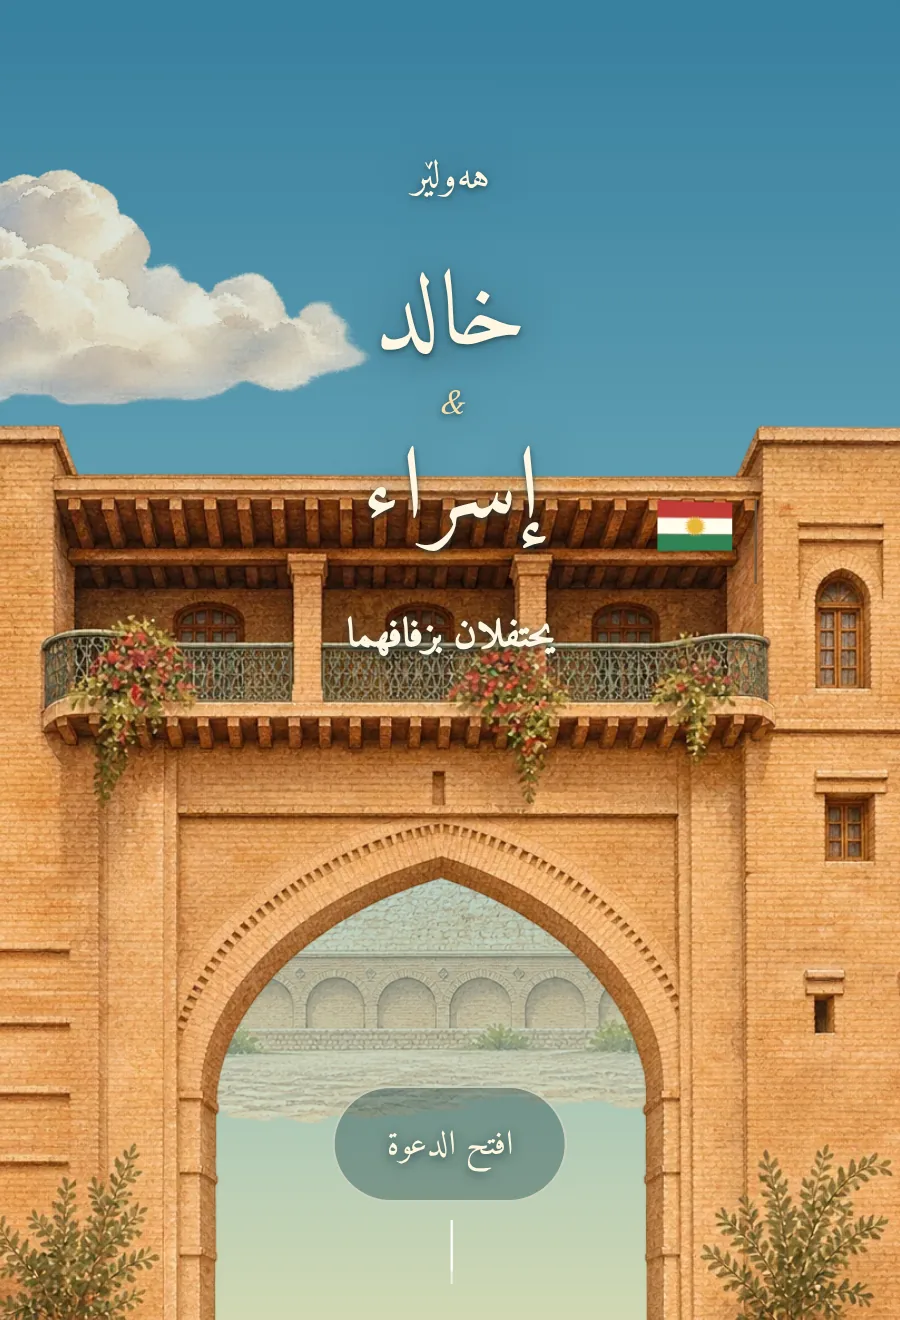
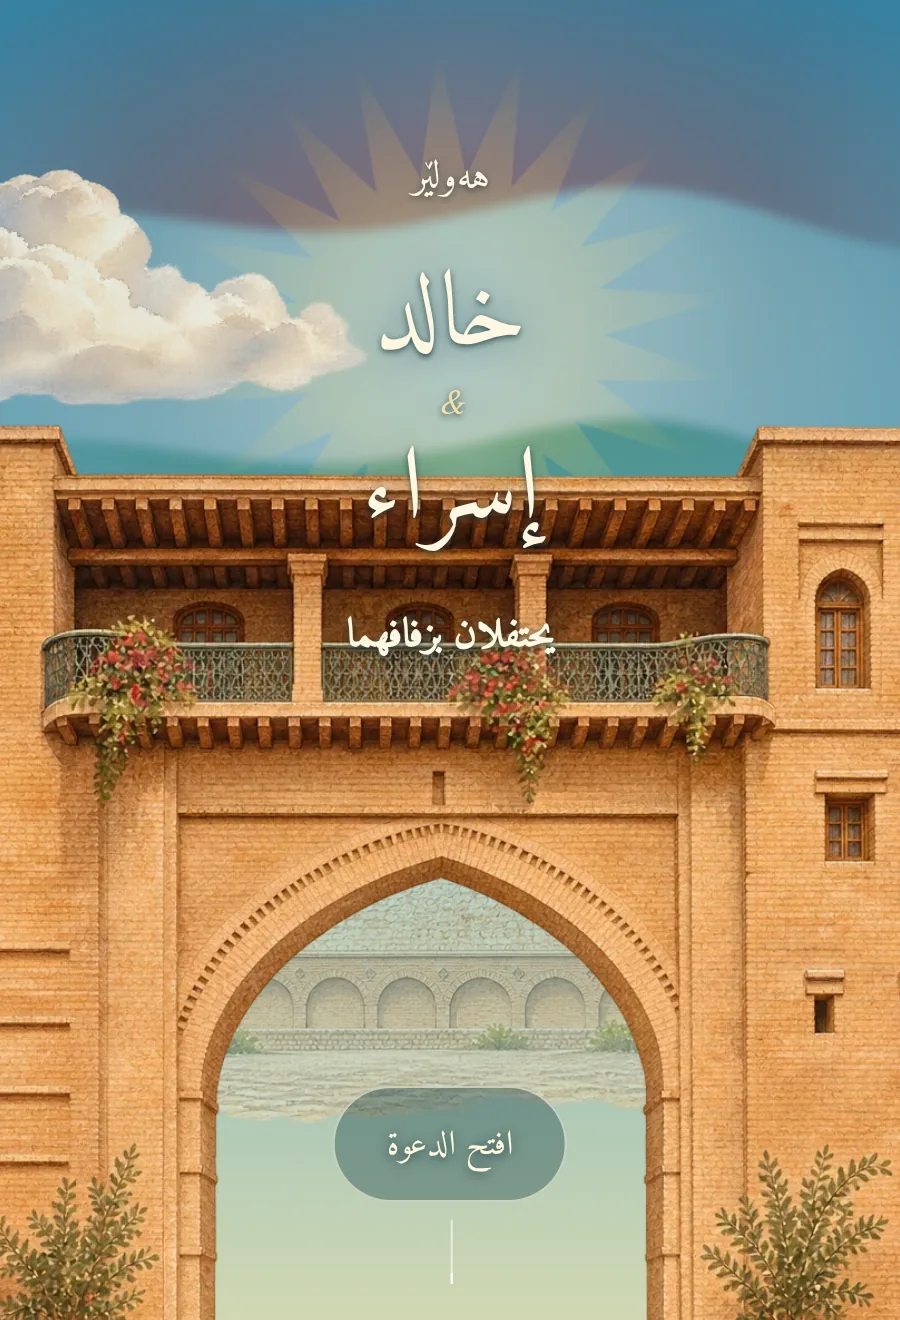
Erbil · Hewlêr: the Kurdish flag waves from the Citadel and fades into the sky
The small static flag on the gate is gone (owner, 2026-11-15). A waving flag (SVG, its bands, sun and fold shading
animated with SVG animate, still with reduced motion) flies from the Citadel's main building during the journey,
pinned to the artwork with a box of the picture's own shape. On the cover the flag's three bands tint the sky in a
soft fade (soft-light, masked) with its sun glowing gently behind the names. New cover thumbnail.

Claude-Session: https://claude.ai/code/session_01XXdhKFNjs8WnGdQib4UtYf

Changed region(s): [[0.0622, 0.0, 1.0, 0.4348], [0.0311, 0.2795, 0.0622, 0.3106]]

diff --git a/themes/erbil-hewler/v1/flag.tsx b/themes/erbil-hewler/v1/flag.tsx
@@ -1,0 +1,105 @@
+import { useId } from 'react';
+import { sunPoints } from './motion';
+
+/*
+ * The Kurdish flag in the wind: its three bands and the sun ripple along the cloth (pinned at the pole, freer at the
+ * fly end), with a soft fold shading travelling across. Drawn in SVG and animated with SVG <animate> (no script, no
+ * layout work); still when the guest prefers reduced motion.
+ */
+const W = 120;
+const H = 80;
+const STEPS = 24;
+const FRAMES = 8;
+
+/** How far the cloth is lifted at x for wave phase φ: nothing at the pole, most at the fly end. */
+const lift = (x: number, phi: number) => 4.5 * (0.15 + 0.85 * (x / W)) * Math.sin((2 * Math.PI * x) / 70 - phi);
+
+/** One band (from y0 to y1 at rest) at phase φ, as a closed path. */
+function band(y0: number, y1: number, phi: number) {
+  const top: string[] = [];
+  const bottom: string[] = [];
+  for (let i = 0; i <= STEPS; i++) {
+    const x = (W * i) / STEPS;
+    const dy = lift(x, phi);
+    top.push(`${x.toFixed(1)} ${(y0 + dy).toFixed(2)}`);
+    bottom.unshift(`${x.toFixed(1)} ${(y1 + dy).toFixed(2)}`);
+  }
+  return `M${top.join(' L')} L${bottom.join(' L')} Z`;
+}
+
+const phases = Array.from({ length: FRAMES + 1 }, (_, i) => (2 * Math.PI * i) / FRAMES);
+const frames = (y0: number, y1: number) => phases.map((phi) => band(y0, y1, phi)).join(';');
+const BANDS = [
+  { fill: '#c8352f', y0: 0, y1: H / 3 },
+  { fill: '#fdf8ea', y0: H / 3, y1: (2 * H) / 3 },
+  { fill: '#2c8a4f', y0: (2 * H) / 3, y1: H },
+].map((b) => ({ ...b, rest: band(b.y0, b.y1, 0), frames: frames(b.y0, b.y1) }));
+const CLOTH = { rest: band(0, H, 0), frames: frames(0, H) };
+const SUN = sunPoints(0, 0, 10.5, 17.5);
+const SUN_MOVES = phases.map((phi) => `${W / 2} ${(H / 2 + lift(W / 2, phi)).toFixed(2)}`).join(';');
+
+export function WavingFlag({
+  className,
+  still = false,
+  seconds = 2.6,
+  stretch = false,
+  sun = true,
+}: {
+  className?: string;
+  still?: boolean;
+  seconds?: number;
+  /** Fill the box (the faded sky) instead of keeping the flag's shape. */
+  stretch?: boolean;
+  sun?: boolean;
+}) {
+  const id = useId().replace(/[^a-zA-Z0-9]/g, '');
+  const dur = `${seconds}s`;
+  return (
+    <svg
+      className={className}
+      viewBox={stretch ? `0 -4 ${W} ${H + 8}` : `-2 -8 ${W + 4} ${H + 16}`}
+      preserveAspectRatio={stretch ? 'none' : undefined}
+      aria-hidden="true"
+      focusable="false"
+    >
+      <defs>
+        <linearGradient id={`${id}-fold`} gradientUnits="userSpaceOnUse" x1="0" y1="0" x2="70" y2="0" spreadMethod="repeat">
+          <stop offset="0" stopColor="#000" stopOpacity="0.16" />
+          <stop offset="0.5" stopColor="#fff" stopOpacity="0.14" />
+          <stop offset="1" stopColor="#000" stopOpacity="0.16" />
+          {still ? null : <animateTransform attributeName="gradientTransform" type="translate" from="0 0" to="70 0" dur={dur} repeatCount="indefinite" />}
+        </linearGradient>
+      </defs>
+      {BANDS.map((b) => (
+        <path key={b.fill} d={b.rest} fill={b.fill}>
+          {still ? null : <animate attributeName="d" values={b.frames} dur={dur} repeatCount="indefinite" />}
+        </path>
+      ))}
+      {sun ? (
+        <polygon points={SUN} fill="#f1b92f" transform={`translate(${W / 2} ${H / 2})`}>
+          {still ? null : <animateTransform attributeName="transform" type="translate" values={SUN_MOVES} dur={dur} repeatCount="indefinite" />}
+        </polygon>
+      ) : null}
+      <path d={CLOTH.rest} fill={`url(#${id}-fold)`}>
+        {still ? null : <animate attributeName="d" values={CLOTH.frames} dur={dur} repeatCount="indefinite" />}
+      </path>
+    </svg>
+  );
+}
+
+/** The flag's sun on its own, as a soft golden glow (the cover's sky). */
+export function SunGlow({ className }: { className?: string }) {
+  const id = useId().replace(/[^a-zA-Z0-9]/g, '');
+  return (
+    <svg className={className} viewBox="-50 -50 100 100" aria-hidden="true" focusable="false">
+      <defs>
+        <radialGradient id={`${id}-glow`}>
+          <stop offset="0" stopColor="#fff3c4" />
+          <stop offset="0.45" stopColor="#f6c94f" />
+          <stop offset="1" stopColor="#f1b92f" stopOpacity="0" />
+        </radialGradient>
+      </defs>
+      <polygon points={sunPoints(0, 0, 26, 48)} fill={`url(#${id}-glow)`} />
+    </svg>
+  );
+}

diff --git a/themes/erbil-hewler/v1/Theme.tsx b/themes/erbil-hewler/v1/Theme.tsx
@@ -16,8 +16,9 @@ import {
   type ThemeProps,
 } from '@/theme-sdk';
 import { BORDER } from './border';
+import { SunGlow, WavingFlag } from './flag';
 import { PLACES, copyFor, type Copy, type PlaceKey } from './copy';
-import { OPENING_MS, progressAt, sceneAt, sunPoints } from './motion';
+import { OPENING_MS, progressAt, sceneAt } from './motion';
 import archFrame from './assets/arch-frame.webp';
 import citadel from './assets/citadel.webp';
 import cityMap from './assets/city-map.webp';
@@ -49,7 +50,6 @@ const ART: Record<PlaceKey, string> = {
   square: square.src,
   minaret: minaret.src,
 };
-const SUN_FLAG = sunPoints(60, 40, 11, 18);
 
 /* eslint-disable @next/next/no-img-element -- the design's layered watercolours */
 
@@ -140,6 +140,11 @@ export default function ErbilHewler(props: ThemeProps) {
         <section className={c('opening')} aria-label={labels.openInvitation}>
           <div className={c('stage')} ref={stageRef}>
             <div className={c('sky')} aria-hidden="true" />
+            {/* The flag's colours and its sun, faded into the sky behind the names. */}
+            <div className={c('sky-flag')} aria-hidden="true">
+              <WavingFlag className={c('sky-flag-cloth')} still={reduced} seconds={8} stretch sun={false} />
+              <SunGlow className={c('sky-sun')} />
+            </div>
             <div className={c('warmth')} data-layer="warmth" aria-hidden="true" />
             <div className={c('cloud', 'cloud-one')} data-layer="cloudOne" aria-hidden="true">
               <img src={clouds.src} alt="" />
@@ -174,7 +179,14 @@ export default function ErbilHewler(props: ThemeProps) {
                 <p>{t.citadelLine}</p>
               </div>
               <div className={c('citadel-hill')} data-layer="citadelHill">
-                <img src={citadel.src} alt="" />
+                <div className={c('citadel-frame')}>
+                  <img src={citadel.src} alt="" />
+                  {/* The flag flies from the Citadel's main building. */}
+                  <div className={c('citadel-flag')}>
+                    <span className={c('citadel-pole')} />
+                    <WavingFlag className={c('citadel-cloth')} still={reduced} />
+                  </div>
+                </div>
               </div>
             </div>
             <div className={c('city-world')} data-layer="cityWorld" aria-hidden="true">
@@ -221,10 +233,6 @@ export default function ErbilHewler(props: ThemeProps) {
             </div>
             <div className={c('gate-layer')} data-layer="gate" aria-hidden="true">
               <img src={gate.src} alt="" />
-              <div className={c('flag-pole')}>
-                <span />
-                <KurdishFlag className={c('kurdish-flag')} />
-              </div>
             </div>
             <div className={c('foreground', 'foliage-left')} data-layer="foliageLeft" aria-hidden="true">
               <div className={c('leaf-sway')}>
@@ -668,17 +676,6 @@ function FieldError({ id, children }: { id: string; children: ReactNode }) {
 }
 
 /* eslint-enable @next/next/no-img-element */
-
-function KurdishFlag({ className }: { className: string }) {
-  return (
-    <svg className={className} viewBox="0 0 120 80" aria-hidden="true">
-      <path fill="#c23b37" d="M0 0H120V26.667H0z" />
-      <path fill="#fffced" d="M0 26.667H120V53.334H0z" />
-      <path fill="#308254" d="M0 53.334H120V80H0z" />
-      <polygon points={SUN_FLAG} fill="#e8b638" />
-    </svg>
-  );
-}
 
 function Rosette({ className }: { className: string }) {
   return (

diff --git a/themes/erbil-hewler/v1/theme.module.css b/themes/erbil-hewler/v1/theme.module.css
@@ -224,41 +224,6 @@
   height: 100%;
   object-fit: contain;
 }
-#frame .root .flag-pole {
-  position: absolute;
-  top: 8%;
-  left: 63%;
-  height: 120px;
-  width: 85px;
-  z-index: 4;
-}
-#frame .root .flag-pole > span {
-  height: 100%;
-  width: 2px;
-  background: #6b5741;
-  display: block;
-}
-#frame .root .kurdish-flag {
-  position: absolute;
-  top: 0;
-  left: 2px;
-  width: 64px;
-  height: 43px;
-  transform-origin: left center;
-  filter: drop-shadow(1px 1px 2px #0002);
-  animation: flag 4s ease-in-out infinite;
-  clip-path: polygon(0 0, 33% 3%, 66% 0, 100% 4%, 100% 96%, 66% 100%, 33% 97%, 0 100%);
-}
-@keyframes flag {
-  0%,
-  100% {
-    transform: perspective(160px) rotateY(-18deg) skewY(-3deg);
-  }
-  50% {
-    transform: perspective(160px) rotateY(18deg) skewY(3deg);
-    clip-path: polygon(0 0, 33% 0, 66% 4%, 100% 0, 100% 100%, 66% 96%, 33% 100%, 0 100%);
-  }
-}
 #frame .root .city-world {
   position: absolute;
   inset: 0;
@@ -1155,13 +1120,6 @@
     width: max(190vw, 790px);
     bottom: -13vh;
     aspect-ratio: 3/2;
-  }
-  #frame .root .flag-pole {
-    height: 70px;
-    top: 8%;
-    left: 62%;
-    transform: scale(0.6);
-    transform-origin: left bottom;
   }
   #frame .root .city-square {
     width: 138%;
@@ -2712,4 +2670,84 @@
   font-family: 'EH Amiri', serif;
   font-size: 13px;
   letter-spacing: 0;
+}
+
+/* ——— The Kurdish flag (owner, 2026-11-15): waving from the Citadel, and faded into the cover's sky ——— */
+#frame .root .sky-flag {
+  position: absolute;
+  inset: 0;
+  z-index: 1;
+  overflow: hidden;
+  pointer-events: none;
+}
+/* The three bands tint the sky (red high up, the white across the middle, green down to the gate), fading at the edges. */
+#frame .root .sky-flag-cloth {
+  position: absolute;
+  left: -10%;
+  top: -4%;
+  width: 120%;
+  height: 58%;
+  opacity: 0.4;
+  mix-blend-mode: soft-light;
+  filter: blur(3px);
+  -webkit-mask-image: radial-gradient(ellipse 70% 62% at 50% 46%, #000 30%, transparent 82%);
+  mask-image: radial-gradient(ellipse 70% 62% at 50% 46%, #000 30%, transparent 82%);
+}
+/* Its sun glows behind the names and turns very slowly. */
+#frame .root .sky-sun {
+  position: absolute;
+  left: 50%;
+  top: 25%;
+  width: min(66vw, 500px);
+  height: auto;
+  translate: -50% -50%;
+  opacity: 0.26;
+  mix-blend-mode: screen;
+  animation: eh-sun-turn 90s linear infinite;
+}
+@keyframes eh-sun-turn {
+  to {
+    rotate: 360deg;
+  }
+}
+#frame .root .citadel-hill {
+  container-type: size;
+}
+#frame .root .citadel-frame {
+  position: absolute;
+  left: 50%;
+  bottom: 0;
+  width: min(100cqw, 150cqh);
+  aspect-ratio: 3 / 2;
+  translate: -50% 0;
+}
+#frame .root .citadel-frame > img {
+  width: 100%;
+  height: 100%;
+}
+/* The pole stands on the main building's roof (the artwork's 60.5% across, 34.6% down). */
+#frame .root .citadel-flag {
+  position: absolute;
+  left: 60.5%;
+  top: 14.5%;
+  width: 13%;
+  height: 20.3%;
+}
+#frame .root .citadel-pole {
+  position: absolute;
+  left: 0;
+  top: -2%;
+  bottom: 0;
+  width: max(2px, 0.18cqw);
+  border-radius: 2px;
+  background: linear-gradient(#e2c27a, #6b5338 18%, #4d3b27);
+}
+#frame .root .citadel-cloth {
+  position: absolute;
+  left: 1px;
+  top: 0;
+  width: 100%;
+  height: auto;
+  opacity: 0.95;
+  filter: saturate(0.88) drop-shadow(1px 2px 2px #5a40201f);
 }
